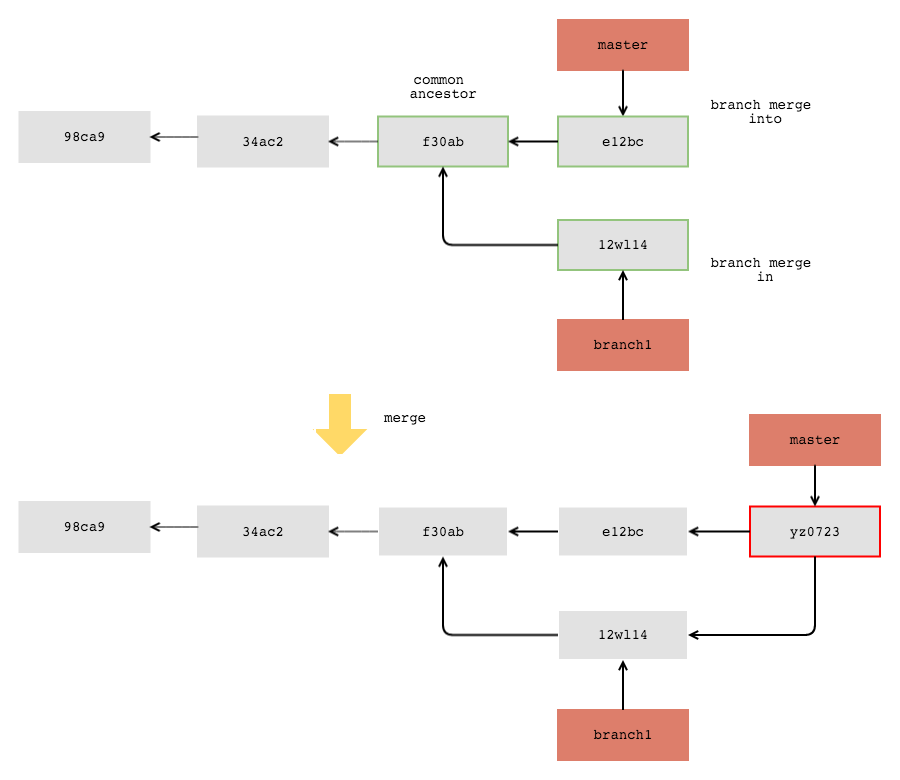
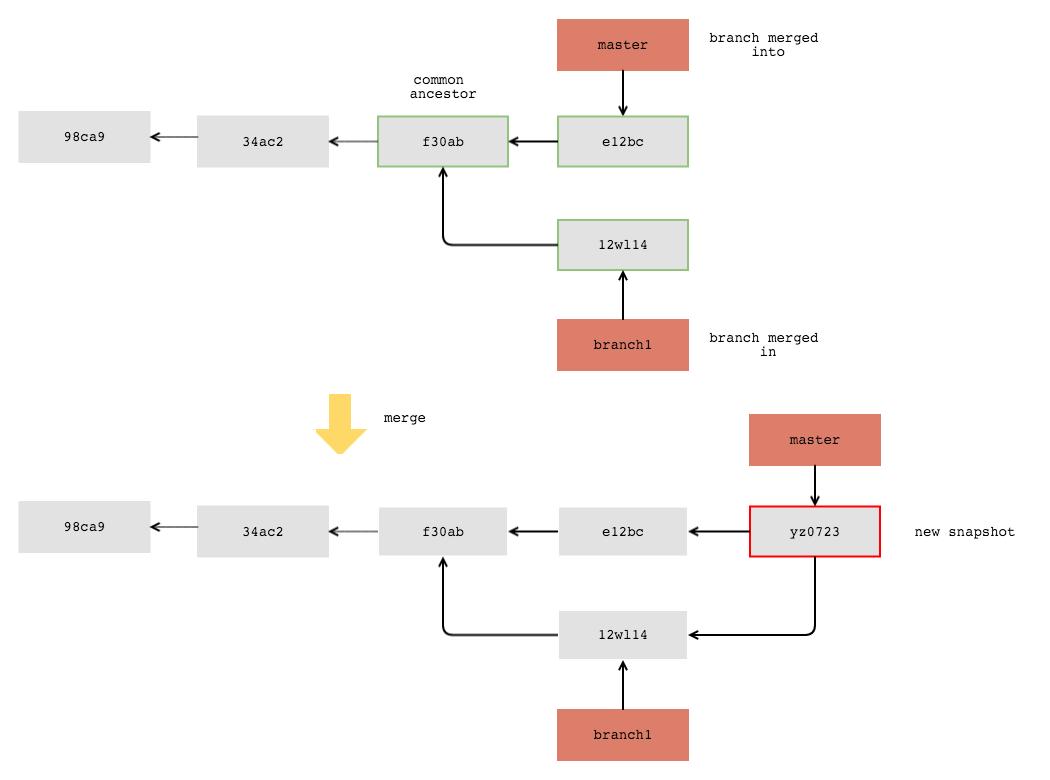
Modify post: git branching1

diff --git a/_posts/GitPro/2016-04-11-GitBranching1.md b/_posts/GitPro/2016-04-11-GitBranching1.md
@@ -24,7 +24,7 @@ This command can be used to create a new branch while `checkout` will switch to 
 <pre class="prettyprint lang-sh">
 $ git branch [branch-name]
 $ git checkout [branch-name]
-$ git checkout -b [branch-name] #create a new branch anc switch to it
+$ git checkout -b [branch-name] #create a new branch and switch to it
 </pre>
 
 ![new branch]({{ site.url }}/assets/images/GitPro/newBranch.png)
@@ -43,7 +43,7 @@ If the branch you merged in is directly upstream of commits you're on, Git simpl
 
 <h4>Condition 1: three-way</h4>
 
-If the branch you merged in isn't directly upstream of commits you're on, Git does a simple three-way merge, using two snapshots pointed to by the branch tips and the common ancestor which is used for merge base. Instead of fast-forward, at this point, Git creates a new snapshot, called merge commit.
+If the branch you merged in isn't directly upstream of commits you're on, Git does a simple three-way merge, using two snapshots pointed to by the branch tips and the best common ancestor which is used for merge base. Instead of fast-forward, at this point, Git creates a new snapshot, called merge commit.
 
 ![Condition 0: not directly upstream]({{ site.url }}/assets/images/GitPro/mergeCondition1.png)
 
